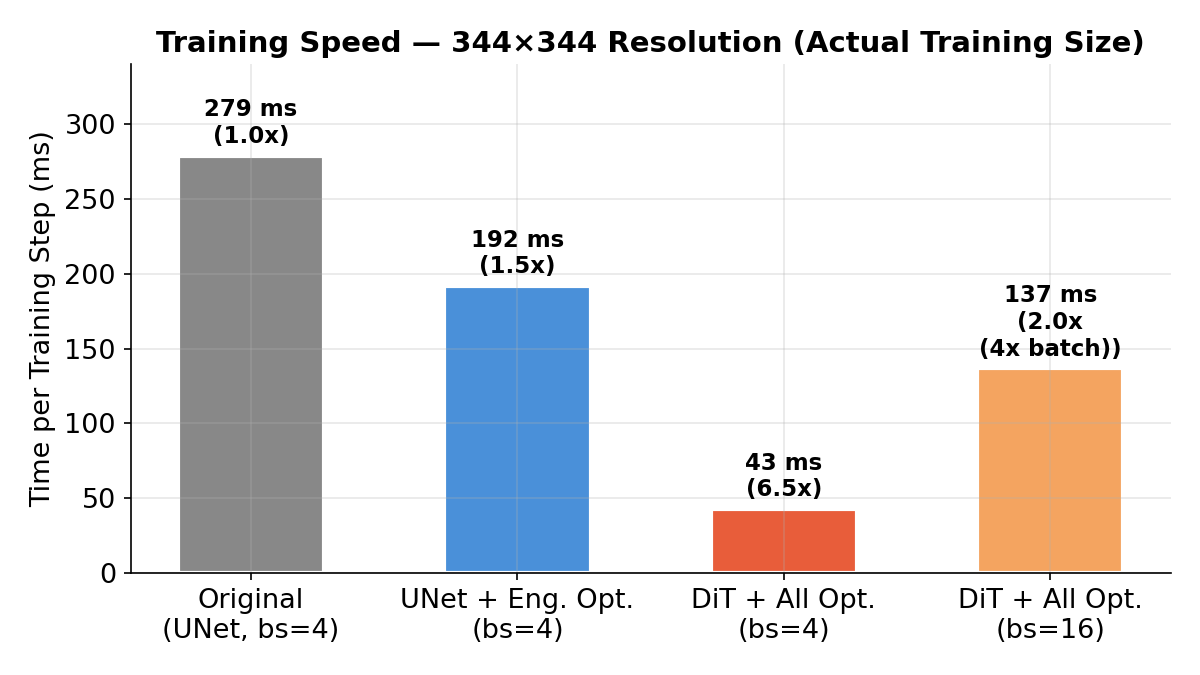
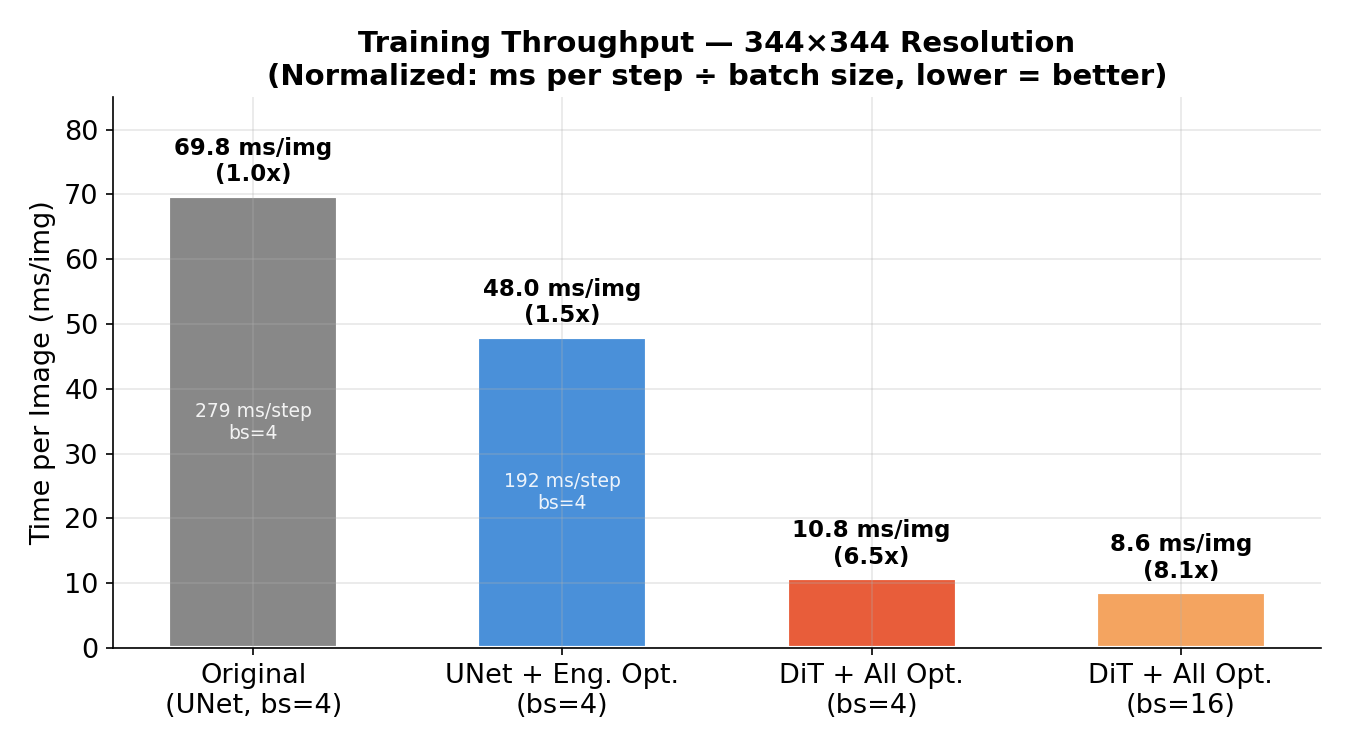
Fix 344x344 chart: normalize by batch size (ms/img)
Shows correct trend: DiT bs=16 (8.6 ms/img, 8.1x) is faster than
DiT bs=4 (10.8 ms/img, 6.5x). Raw ms/step shown inside bars.

Changed region(s): [[0.0, 0.0311, 0.9867, 0.9644], [0.8017, 0.4044, 0.9558, 0.8089], [0.4008, 0.4978, 0.4317, 0.5289]]

diff --git a/docs/executive_summary.md b/docs/executive_summary.md
@@ -29,7 +29,7 @@ We achieved **up to 6.5x faster training** with **no loss in model quality** by 
 
 ![Speed comparison at 344x344](figures/fig2_speed_344x344.png)
 
-The DiT architecture at 344x344 is **6.5x faster** per step at the same batch size. Additionally, it uses so little memory that we can increase the batch size from 4 to 16, which means fewer steps needed to converge.
+Normalized by batch size (ms per image), DiT at bs=4 is **6.5x faster** and at bs=16 is **8.1x faster** than the original UNet. The larger batch also means fewer steps needed to converge.
 
 ---
 
